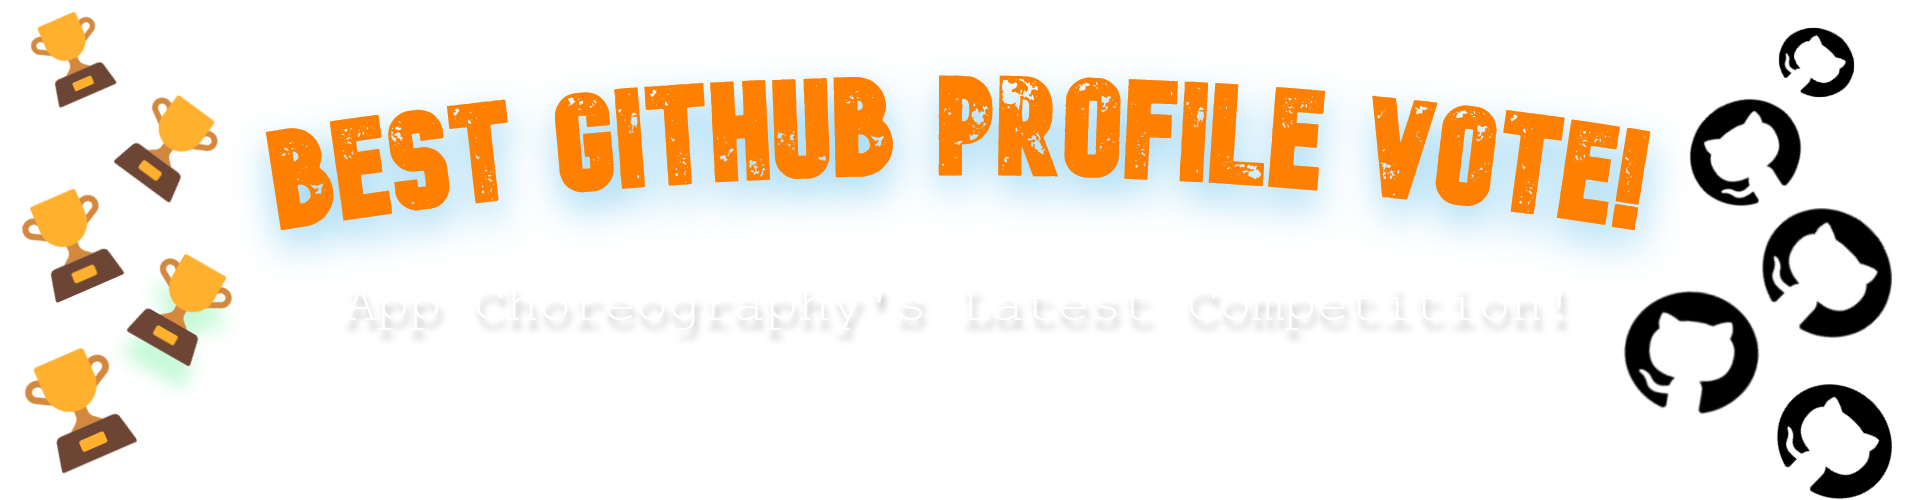
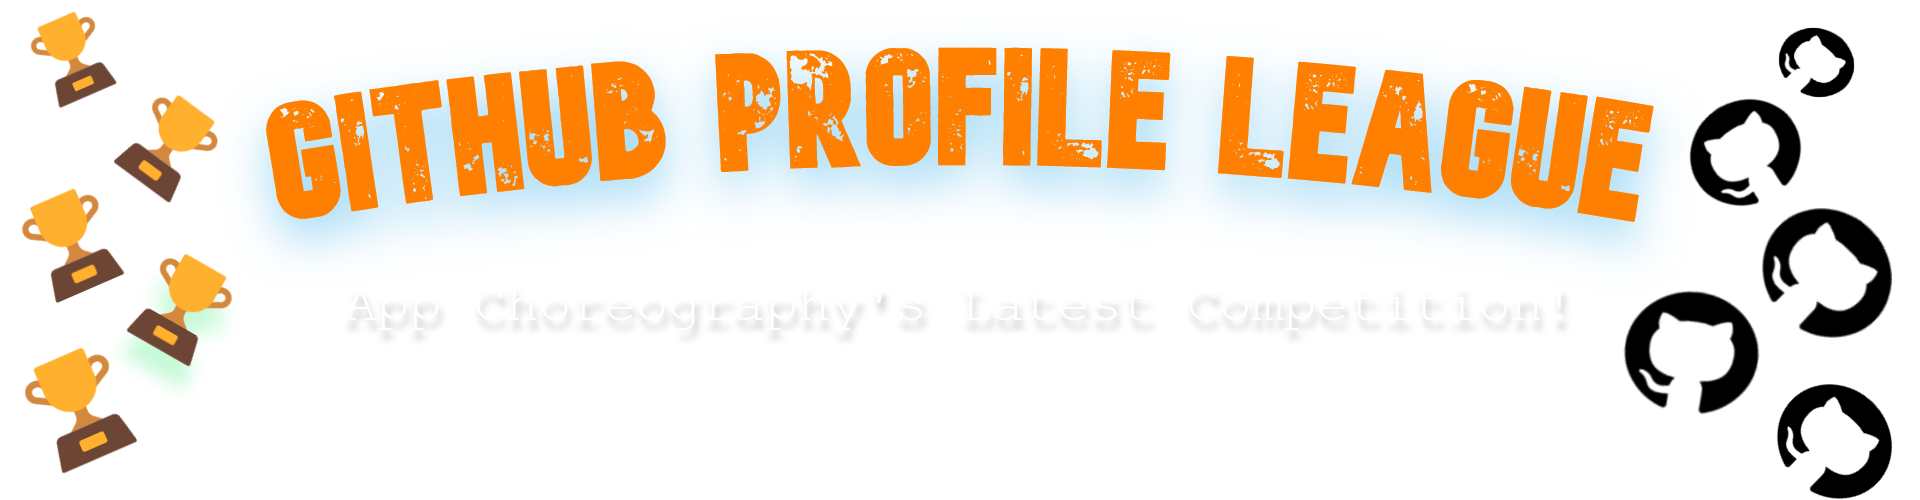
rules

Changed region(s): [[0.125, 0.09, 0.875, 0.45]]

diff --git a/README.md b/README.md
@@ -1,2 +1,97 @@
 ![banner](./banner.png)
 
+### 🏆 Current Winner 🏆: `_______________` . 
+
+> ###### Will be regularly updated.
+
+## What is *GitHub Profile League* ?
+👉 Do you want to have the best GitHub profile README?
+
+👉 Do you want to vote for others profile READMEs?
+
+👉 Do you wish to fill in the green squares on your profile?
+
+This is where we can see some of GitHub's 💫BEST💫 profile READMEs and vote for others! 
+
+- There will be **3** league tables.
+- There will be **9** contestants at a time. 
+- If you wish to enter yourself follow the steps below:
+
+
+### 🎯 Enter your profile README:
+
+1. The first **9** successful pull requests will be accepted and entered.
+2. Fork the repository, now you have your own copy.
+3. Clone the fork copy locally to your computer.
+4. Open the `README.md` file and navigate to the league table. 
+5. Please locate the first empty table cell that you see: *Example: if you are the first contributor, go to `Name1` cell and add your details there.*
+6. Take a reasonable sized screenshot of your profile README.
+7. Go to remote GitHub, and upload the image anywhere, making sure you get a url - example: `https://user-images.githubusercontent.com/70807500/172058698-c25e73c5-8c4e-4949-bf57-6a59965bde0a.png`.
+8. Now copy the image url.
+9. Go to the README.md where the table is, and insert the image where it says `profile screenshot`.
+10. Fill in the other fields in the table cell.
+11. Open a pull request.
+12. Wait for us to merge it.
+13. Once merged, you will see your profile entry in the league.
+14. See your votes increase and hopefully...
+
+### 🏆 You could have the next best GitHub profile! 🏆
+
+## 🎯 How to vote (everone has 3 votes each):
+
+1. Fork the repository.
+2. Clone it locally.
+3. Go to the README.md where all the votes and profiles are.
+4. Go to the candidate you wish to vote for.
+5. Increment the number of votes by 1, 2 or 3. Example `Before: 🏅 5 ---> After: 🏅 6`.
+6. Open a pull request and we will quickly merge!
+
+## 🎯 How does the League grouping work and how will the winner be determined?
+
+- Once all leagues are full, the 48 hour countdown will begin. This means there will be 48 hours for people to vote.
+- After the time period, App-Choreographers will come and re-order the profiles depending on the amount of votes given.
+- This will be repeated 5 times. After 10 days, there will be a clear winner!
+- First come, first serve! Those who contribute first and add their profiles will be added in ascending order, meaning that the first contributor will be the frst name in League 1, and the last contributor will be the last name in League 3.
+
+## The Winner 🏆:
+Once the winner is determined this is what they get:
+
+- A professional and personalised digital banner, which you can customize once you win showing you have the best GitHub profile README.
+- Their name and GitHub link will be added to App-Choreo's website.
+- The owner of this organisation CodingSpecies, will add the link of the winners profile to their own profile README.
+- Other prizes are still to be considered.
+
+
+## 🎯 Filling in the Leagues:
+
+- To add your entry, replace the `NAME 1` (or whatever number) with your GitHub name and link in this format: `[GitHub Name](githubprofilelink)`.
+- Where it says `Profile Screenshot 1`(or whatever number) change it to your profile README screenshot.
+
+![](https://user-images.githubusercontent.com/73097560/115834477-dbab4500-a447-11eb-908a-139a6edaec5c.gif)
+
+## League 1 🥇:
+
+| Name 1 | Name 2 | Name 3 |
+| -------- | -------- | -------- |
+| Profile Screenshot 1 | Profile Screenshot 2 | Profile Screenshot 3 |
+| 🏅 6 |  🏅 13 | 🏅 4 |
+
+![](https://user-images.githubusercontent.com/73097560/115834477-dbab4500-a447-11eb-908a-139a6edaec5c.gif)
+
+## League 2 🥈:
+
+| Name 4 | Name 5 | Name 6 |
+| -------- | -------- | -------- |
+| Profile Screenshot 4 | Profile Screenshot 5 | Profile Screenshot 6 |
+| 🏅 2 |  🏅 5 | 🏅 11 |
+
+![](https://user-images.githubusercontent.com/73097560/115834477-dbab4500-a447-11eb-908a-139a6edaec5c.gif)
+
+## League 3 🥉:
+
+| Name 7 | Name 8 | Name 9 |
+| -------- | -------- | -------- |
+| Profile Screenshot 7 | Profile Screenshot 8 | Profile Screenshot 9 |
+| 🏅 0 |  🏅 4 | 🏅 7 |
+
+![](https://user-images.githubusercontent.com/73097560/115834477-dbab4500-a447-11eb-908a-139a6edaec5c.gif)
